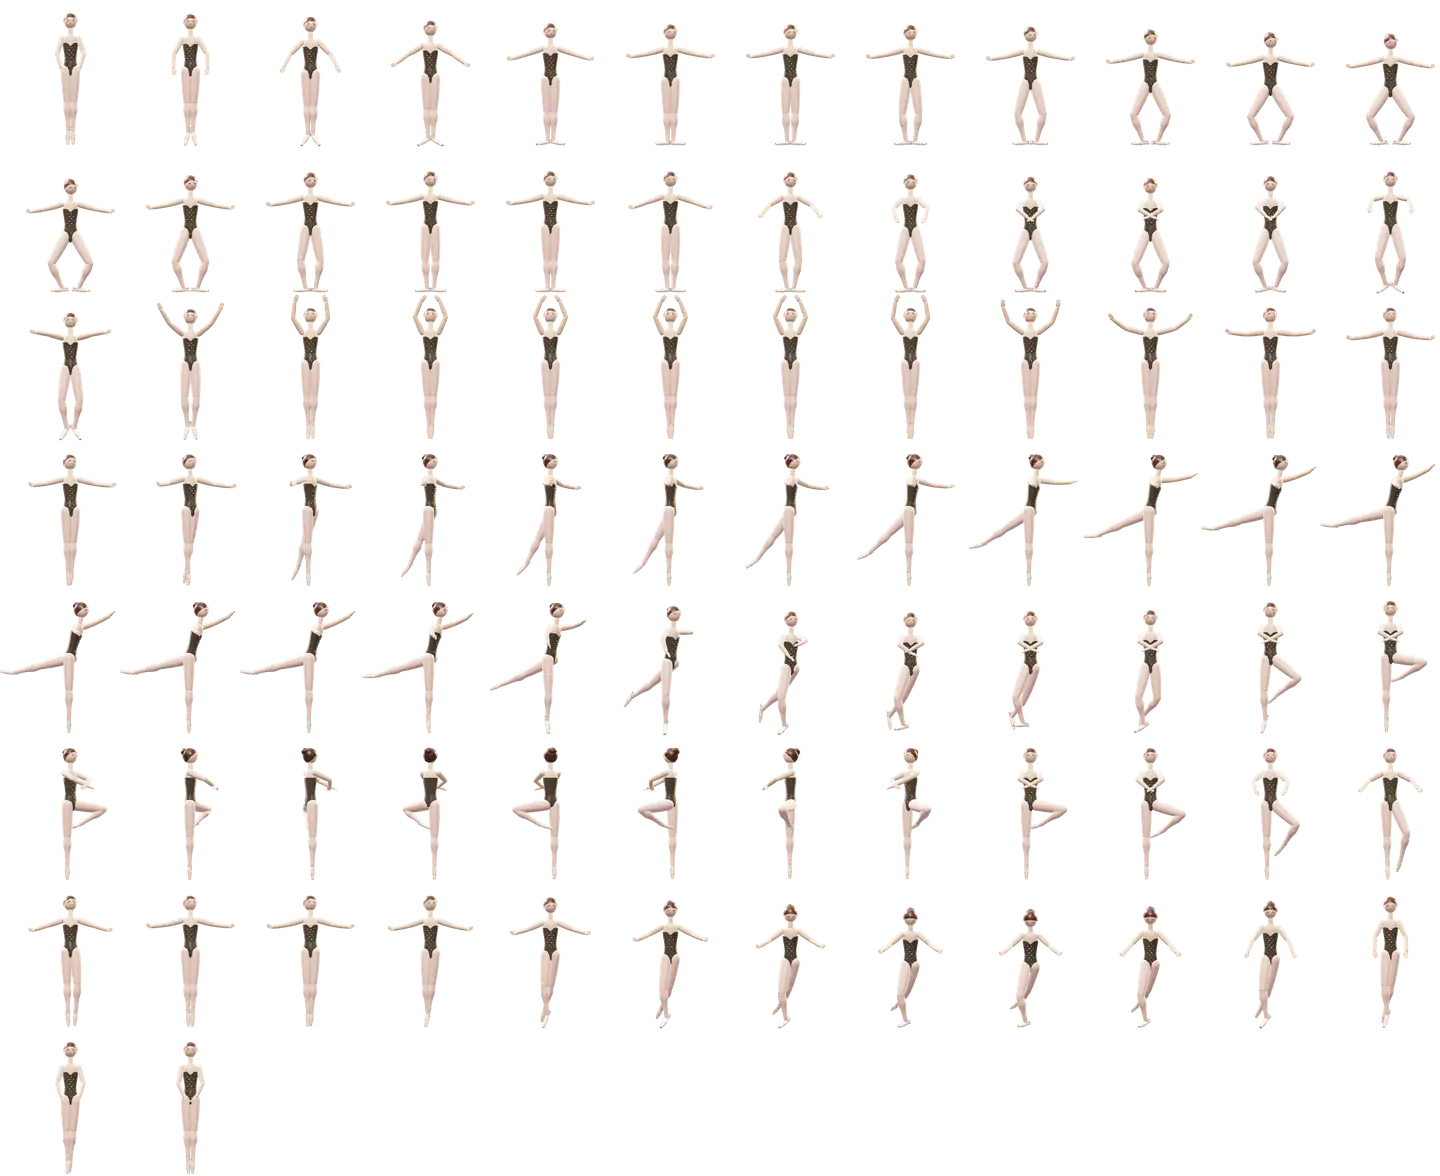
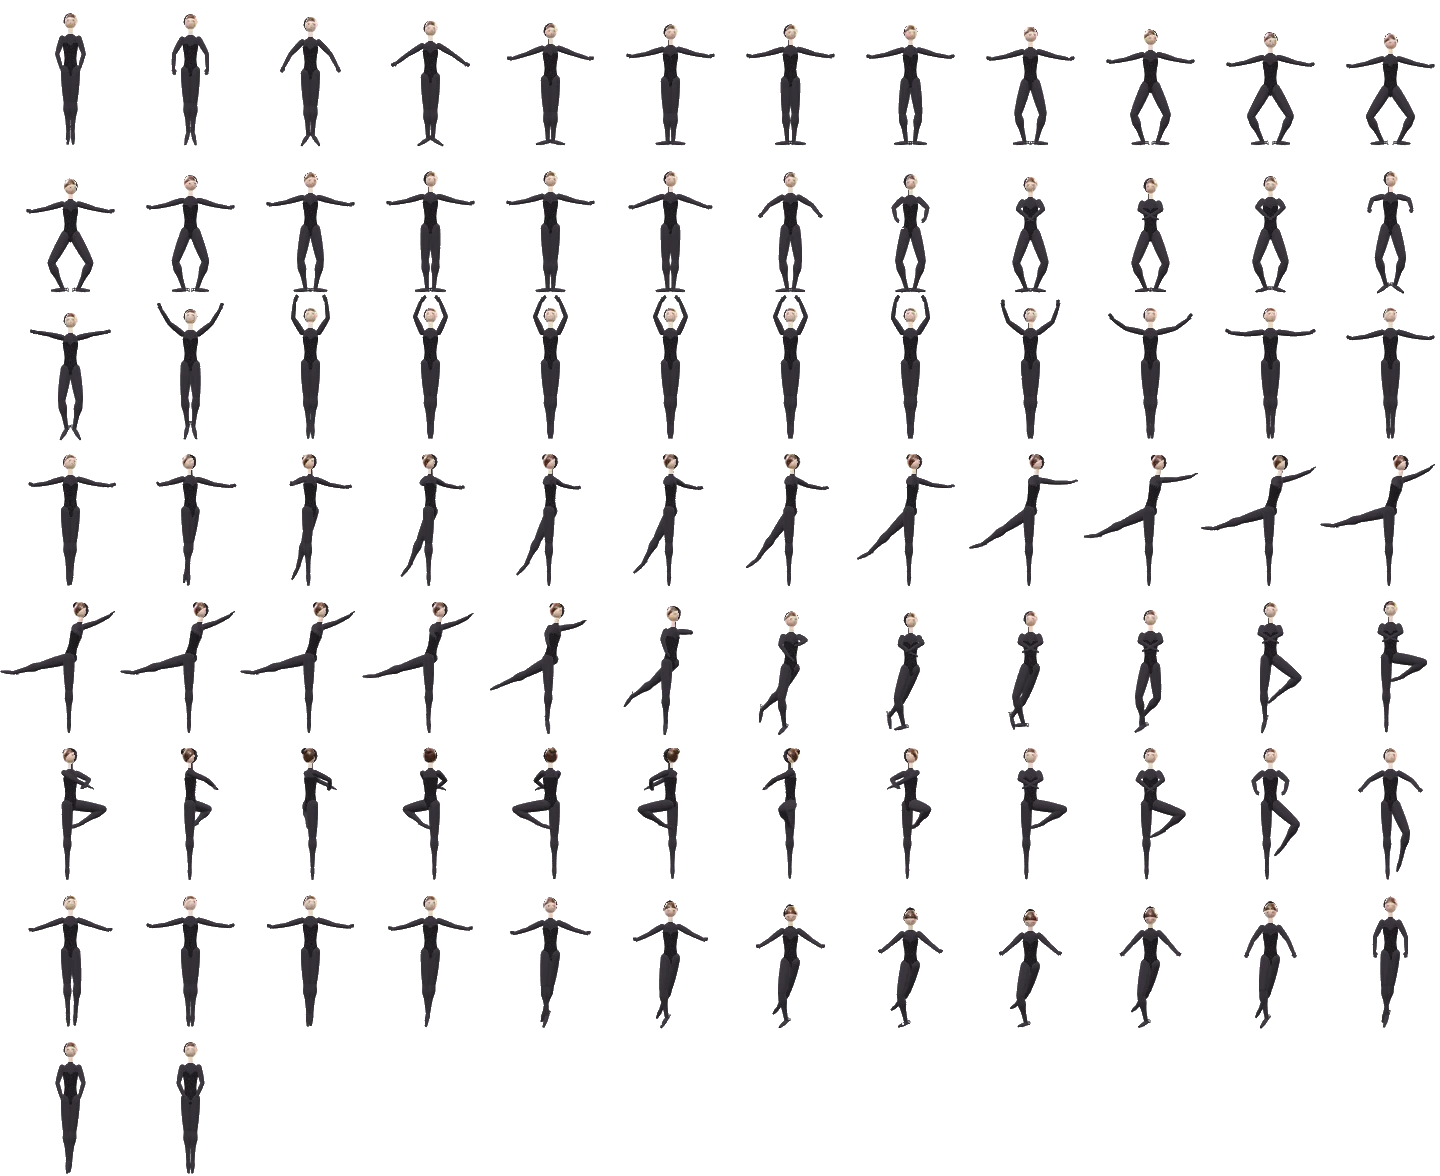
Irene de roupa preta na barra, telefone com máscara, confete só no último item, camarim mais enxuto, sacolinha zera ao recarregar, respiros menores
Claude-Session: https://claude.ai/code/session_01THE3xDWbhF6kM2m9gy2Yhj

diff --git a/index.html b/index.html
@@ -1537,6 +1537,25 @@ html.shop .bag.pop .bag-in{animation:bagpop .45s cubic-bezier(.3,1.6,.6,1)}
 .tc-spr{width:108px!important;height:132px!important}
 @media (max-width:760px){.bl3{width:98px!important;height:120px!important}.sb-irene.bl3{width:120px!important;height:147px!important}}
 @media (max-width:560px){.tc-spr{width:100px!important;height:122px!important}}
+.tbelt-nav{justify-content:flex-start!important}
+#turmas.sec{padding-top:40px!important}
+@media (max-width:860px){#turmas.sec{padding-top:26px!important}}
+.sb-say{top:36px!important}
+@media (max-width:760px){.sb-say{top:38px!important}}
+html.shop #camarim{padding-top:calc(88px + env(safe-area-inset-top,0px))!important}
+@media (max-width:860px){html.shop #camarim{padding-top:calc(76px + env(safe-area-inset-top,0px))!important}}
+html.shop .shop-back{margin-bottom:16px}
+.shop-help{display:none}
+html.shop .shop-help{display:flex;align-items:center;gap:14px;flex-wrap:wrap;margin:22px 0 8px;padding:18px;border-radius:22px;background:linear-gradient(135deg,#2A1838,#4A2350);color:#fff;box-shadow:0 22px 40px -28px rgba(40,10,60,.8)}
+.shop-help .sh-ic{width:48px;height:48px;border-radius:14px;display:grid;place-items:center;background:rgba(255,255,255,.12);font-size:24px;flex:none}
+.shop-help div{flex:1 1 180px;display:grid;gap:3px}.shop-help b{font-size:16px}.shop-help small{font-size:13.5px;color:rgba(255,255,255,.75)}
+.shop-help .btn{background:#1F9D55;color:#fff;border:0;white-space:nowrap}
+html.shop .s-ch{flex:1 1 0!important;min-width:0}
+html.shop .s-tm{flex:1 1 0!important;min-width:0}
+html.shop .s-opt{flex-wrap:nowrap;align-items:flex-end}
+html.shop .s-ch button{min-width:38px;height:38px;padding:0 10px}
+html.shop .s-q button{width:38px;height:38px}
+html.shop .srow{gap:10px}
 </style>
 </head>
 <body>
@@ -1808,6 +1827,7 @@ html.shop .bag.pop .bag-in{animation:bagpop .45s cubic-bezier(.3,1.6,.6,1)}
     </div>
     <div class="pfilt" id="pfilt" role="group" aria-label="Filtrar peças" hidden></div>
     <div class="pgrid" id="pgrid"></div>
+    <div class="shop-help"><span class="sh-ic" aria-hidden="true">🩰</span><div><b>Ficou em dúvida no tamanho?</b><small>A Irene ajuda a escolher antes de você pedir.</small></div><a class="btn" id="shop-wa" href="#" target="_blank" rel="noopener">Perguntar à Irene</a></div>
     <div class="shop-more"><a class="btn goldb" href="/camarim">🩰 Abrir a loja completa de pedidos <span aria-hidden="true">→</span></a></div>
     <div class="bag" id="bag" hidden><button type="button" class="bag-in" id="bag-open"><span class="bag-ic" aria-hidden="true">👜<i id="bag-n">0</i></span><span class="bag-t"><b id="bag-t">Sacolinha</b><small id="bag-s">toque para revisar e enviar</small></span><span class="bag-go">Enviar pedido →</span></button></div>
   </div>
@@ -1925,6 +1945,7 @@ var TCOL=["#EFA3BA","#E8C27A","#B9A3E8","#8FD3C1","#F08FA8","#F2B48A"];
 
 function $(id){return document.getElementById(id)}
 function esc(s){return String(s==null?"":s).replace(/[&<>"']/g,function(c){return{"&":"&amp;","<":"&lt;",">":"&gt;",'"':"&quot;","'":"&#39;"}[c]})}
+addEventListener("load",function(){var a=document.getElementById("shop-wa");if(a)a.href="https://wa.me/"+waNum()+"?text="+encodeURIComponent("Olá, Irene! Estou fazendo um pedido no Camarim e fiquei com dúvida no tamanho.")});
 function waNum(){var n=String(SITE.whatsapp||"").replace(/\D/g,"");if(n&&n.length<=11)n="55"+n;return n}
 function waShow(){var n=String(SITE.whatsapp||"").replace(/\D/g,"");if(n.length>11)n=n.slice(-11);return n.length===11?"("+n.slice(0,2)+") "+n.slice(2,7)+"-"+n.slice(7):n}
 function waUrl(t){return "https://wa.me/"+waNum()+"?text="+encodeURIComponent(t)}
@@ -2157,8 +2178,8 @@ function waitSheet(tid){
   };
 }
 /* ---------- sacolinha do Camarim: várias peças num pedido só ---------- */
-var LS_BAG="formas-sacolinha-v1",BAG=[];try{BAG=JSON.parse(localStorage.getItem(LS_BAG)||"[]")||[]}catch(e){BAG=[]}
-function saveBag(){try{localStorage.setItem(LS_BAG,JSON.stringify(BAG))}catch(e){}renderBag();document.querySelectorAll(".srow").forEach(srowUpd);var g=$("pgrid");if(g)g.querySelectorAll("[data-prod]").forEach(function(b){var n=bagCount(b.dataset.prod);b.textContent=n?"✓ Na sacolinha ("+n+")":"Escolher"})}
+var LS_BAG="formas-sacolinha-v1",BAG=[];try{localStorage.removeItem(LS_BAG)}catch(e){}
+function saveBag(){renderBag();document.querySelectorAll(".srow").forEach(srowUpd);var g=$("pgrid");if(g)g.querySelectorAll("[data-prod]").forEach(function(b){var n=bagCount(b.dataset.prod);b.textContent=n?"✓ Na sacolinha ("+n+")":"Escolher"})}
 function bagCount(pid){return BAG.filter(function(x){return x.produtoId===pid}).reduce(function(s,x){return s+x.qtd},0)}
 function bagTotal(){return BAG.reduce(function(s,x){return s+x.qtd},0)}
 function bagLine(x){return x.qtd+"x "+x.produto+(x.tamanho?" — tamanho "+x.tamanho:"")+(x.cor?" — "+x.cor:"")}
@@ -2377,7 +2398,7 @@ function renderDress(){
   $("d-photo").onclick=function(){if(!window.Reino)return;var a=document.createElement("a");a.href=window.Reino.photo(DOLL.nome);a.download="minha-bailarina-formas.jpg";document.body.appendChild(a);a.click();a.remove();toast("Foto da sua bailarina ✦")};
 }
 function saveDoll(){try{localStorage.setItem(LS_DOLL,JSON.stringify(DOLL))}catch(e){}if(window.Reino)window.Reino.set(DOLL);if(window.Caixa)window.Caixa.set(DOLL);$("plaque").textContent=DOLL.nome?"✦ "+DOLL.nome+" ✦":"";$("plaque").classList.toggle("on",!!DOLL.nome)}
-$("dress").addEventListener("click",function(e){var b=e.target.closest("[data-dk-k]");if(!b)return;DOLL[b.dataset.dkK]=b.dataset.v;saveDoll();renderDress();if(window.Reino)window.Reino.burst()});
+$("dress").addEventListener("click",function(e){var b=e.target.closest("[data-dk-k]");if(!b)return;DOLL[b.dataset.dkK]=b.dataset.v;saveDoll();renderDress()});
 function dockInset(){}
 function openCard(t){$("dk-coreo").hidden=t!=="coreo";$("dk-vestir").hidden=t!=="vestir";if(t==="vestir")renderDress();$("h3card").classList.add("on");document.querySelectorAll("[data-dk]").forEach(function(x){x.setAttribute("aria-pressed",x.dataset.dk===t)})}
 document.querySelectorAll("[data-dk]").forEach(function(b){b.onclick=function(){var t=b.dataset.dk;if($("h3card").classList.contains("on")&&b.getAttribute("aria-pressed")==="true"){$("h3card").classList.remove("on");b.setAttribute("aria-pressed","false");return}openCard(t)}});
@@ -2448,7 +2469,6 @@ hit("view");
     b.classList.remove("bump");void b.offsetWidth;b.classList.add("bump");
     var first=!done[k];done[k]=v;DOLL[k]=v;if(k==="sapatilha"&&false)DOLL[k]=v;saveDoll();
     if(window.Reino&&window.Reino.dress)window.Reino.dress(k,v);
-    var r=b.getBoundingClientRect();if(window.fairyAt)fairyAt(r.left+r.width/2,r.top+8,26);
     chime(k==="pele"?[76,81,84]:k==="tutu"?[79,84,88,91]:k==="enfeite"?[88,91,96]:[84,88,91],.08);
     var n=prog();$("dk-info").innerHTML=LINES[k][first?0:1];
     if(n===Object.keys(B).length&&first){setTimeout(function(){if(window.Reino)window.Reino.dress("pronta");playMusic(6);for(var i=0;i<4;i++)setTimeout(function(){fairyAt(innerWidth*(.55+Math.random()*.3),innerHeight*(.25+Math.random()*.3),40)},i*160);
@@ -2506,5 +2526,10 @@ addEventListener("reino-ready",function(){setTimeout(function(){if(window.Reino&
 setTimeout(function(){if(!opened){if(!window.Reino){$("reino").classList.add("no3d");$("dock").hidden=true;$("build").hidden=true}open3d()}},10000);
 </script>
 <script type="module">if(!document.documentElement.classList.contains("shop")){import("/reino.js").catch(function(){dispatchEvent(new Event("reino-fail"))});import("/caixa.js").catch(function(){var c=document.getElementById("caixa");if(c)c.classList.add("no3d")})}</script>
+<script>/* telefone sempre no formato (31) 98455-2588 enquanto digita */
+document.addEventListener("input",function(e){var t=e.target;if(!t||t.tagName!=="INPUT"||t.type!=="tel")return;var d=t.value.replace(/\D/g,"");if(d.length>11&&d.indexOf("55")===0)d=d.slice(2);d=d.slice(0,11);
+var f=!d?"":d.length<=2?"("+d:d.length<=6?"("+d.slice(0,2)+") "+d.slice(2):d.length<=10?"("+d.slice(0,2)+") "+d.slice(2,6)+"-"+d.slice(6):"("+d.slice(0,2)+") "+d.slice(2,7)+"-"+d.slice(7);
+if(e.inputType&&e.inputType.indexOf("delete")===0&&f.length>t.value.length)return;if(t.value!==f)t.value=f});
+</script>
 </body>
 </html>

diff --git a/adm.html b/adm.html
@@ -875,7 +875,7 @@ function vAlunos(){
     '<div class="alist" id="a-list">'+(L.length?L.map(function(a){var t=turma(a.turmaId),m=mensal(a,k),ag=ageOf(a.nasc),fr=freqMes(a,k),pf=fr.t?Math.round(fr.p*100/fr.t):null;
       var st=a.ativo===false?'<span class="tg">Inativo'+(a.saida?' desde '+dmy(a.saida):'')+'</span>':m?'<span class="tg '+(m.st==="pago"?"ok":m.st==="atrasado"?"err":"warn")+'">'+(m.st==="pago"?"Mensalidade paga":m.st==="atrasado"?"Mensalidade em atraso":"Mensalidade a pagar")+'</span>':'';
       return '<div class="acard'+(a.ativo===false?" off":"")+'" data-al="'+esc(a.id)+'" role="button" tabindex="0" style="--c:'+tcol(t)+'"><span class="av">'+esc(ini(a.nome))+'</span>'+
-        '<div class="ai"><b>'+esc(a.nome)+'</b><small>'+(ag!=null?ag+' anos · ':'')+esc(t?t.nome:"Sem turma")+'</small>'+(a.resp?'<small class="rs">Resp.: '+esc(a.resp)+'</small>':'')+'<div class="tgs">'+st+(pf!=null?'<span class="tg '+(pf<75?"err":"")+'">Presença '+pf+'%</span>':'')+'</div></div>'+
+        '<div class="ai"><b>'+esc(a.nome)+'</b><small>'+(ag!=null?ag+' anos · ':'')+esc(t?t.nome:"Sem turma")+'</small>'+(a.resp||a.whats?'<small class="rs">'+(a.resp?'Resp.: '+esc(a.resp):'')+(a.resp&&a.whats?' · ':'')+(a.whats?esc(phone(a.whats)):'')+'</small>':'')+'<div class="tgs">'+st+(pf!=null?'<span class="tg '+(pf<75?"err":"")+'">Presença '+pf+'%</span>':'')+'</div></div>'+
         '<div class="aa">'+(a.whats?'<a class="ib wa" href="'+waLink(a.whats,"Olá, "+(first(a.resp)||"tudo bem")+"! Aqui é a Irene, da Formas.")+'" target="_blank" rel="noopener" aria-label="WhatsApp de '+esc(first(a.resp)||first(a.nome))+'">'+ic("wa")+'</a>':'')+'<span class="chv">'+CHV+'</span></div></div>'}).join(""):
       '<div class="empty-c"><span>'+(S.q?"🔎":"🩰")+'</span><b>'+(E().alunos.length?"Ninguém encontrado":"Nenhum aluno ainda")+'</b><p>'+(!E().alunos.length?"Toque em ＋ Novo aluno para começar.":S.q?"Ninguém com “"+esc(S.q)+"”"+(tn?" na turma "+esc(tn):"")+".":tn?"A turma "+esc(tn)+" não tem alunos "+(S.inat?"inativos":"ativos")+".":(S.inat?"Nenhum aluno inativo.":"Nenhum aluno ativo."))+'</p>'+(S.q||S.fT?'<button class="btn ghost sm" type="button" id="a-clr">Limpar busca e filtro</button>':'')+'</div>')+'</div>';
 }
@@ -1447,6 +1447,11 @@ setInterval(function(){if(S.test||!S.escola||document.hidden||!$("ov").hidden)re
   if(t&&API){S.tok=t;start();return}
   document.documentElement.classList.remove("boot");
 })();
+</script>
+<script>/* telefone sempre no formato (31) 98455-2588 enquanto digita */
+document.addEventListener("input",function(e){var t=e.target;if(!t||t.tagName!=="INPUT"||t.type!=="tel")return;var d=t.value.replace(/\D/g,"");if(d.length>11&&d.indexOf("55")===0)d=d.slice(2);d=d.slice(0,11);
+var f=!d?"":d.length<=2?"("+d:d.length<=6?"("+d.slice(0,2)+") "+d.slice(2):d.length<=10?"("+d.slice(0,2)+") "+d.slice(2,6)+"-"+d.slice(6):"("+d.slice(0,2)+") "+d.slice(2,7)+"-"+d.slice(7);
+if(e.inputType&&e.inputType.indexOf("delete")===0&&f.length>t.value.length)return;if(t.value!==f)t.value=f});
 </script>
 </body>
 </html>

diff --git a/reino.js b/reino.js
@@ -516,10 +516,10 @@ const Reino = {
   isOpen: () => true,
   dress(kind, col) {
     const c = col && kind !== "enfeite" ? new THREE.Color(col) : null; pop = 1;
-    if (kind === "enfeite") { sparkleBurst(2.0, 70, null); if (!busy && whirl < 0) whirl = 0; }
-    if (kind === "pele") { sparkleBurst(1.7, 70, c); if (!busy && whirl < 0) whirl = 0; }
-    else if (kind === "tutu") { sparkleBurst(1.0, 110, c); if (!busy) whirl = 0; }
-    else if (kind === "sapatilha") { sparkleBurst(.15, 80, c); if (!busy && whirl < 0) whirl = 0; }
+    if (kind === "enfeite") { if (!busy && whirl < 0) whirl = 0; }
+    if (kind === "pele") { if (!busy && whirl < 0) whirl = 0; }
+    else if (kind === "tutu") { if (!busy) whirl = 0; }
+    else if (kind === "sapatilha") { if (!busy && whirl < 0) whirl = 0; }
     else if (kind === "pronta") { sparkleBurst(1.3, 200); if (!(busy && curStep === "reverence")) { busy = false; play("reverence"); } }
   },
   set(o) {
